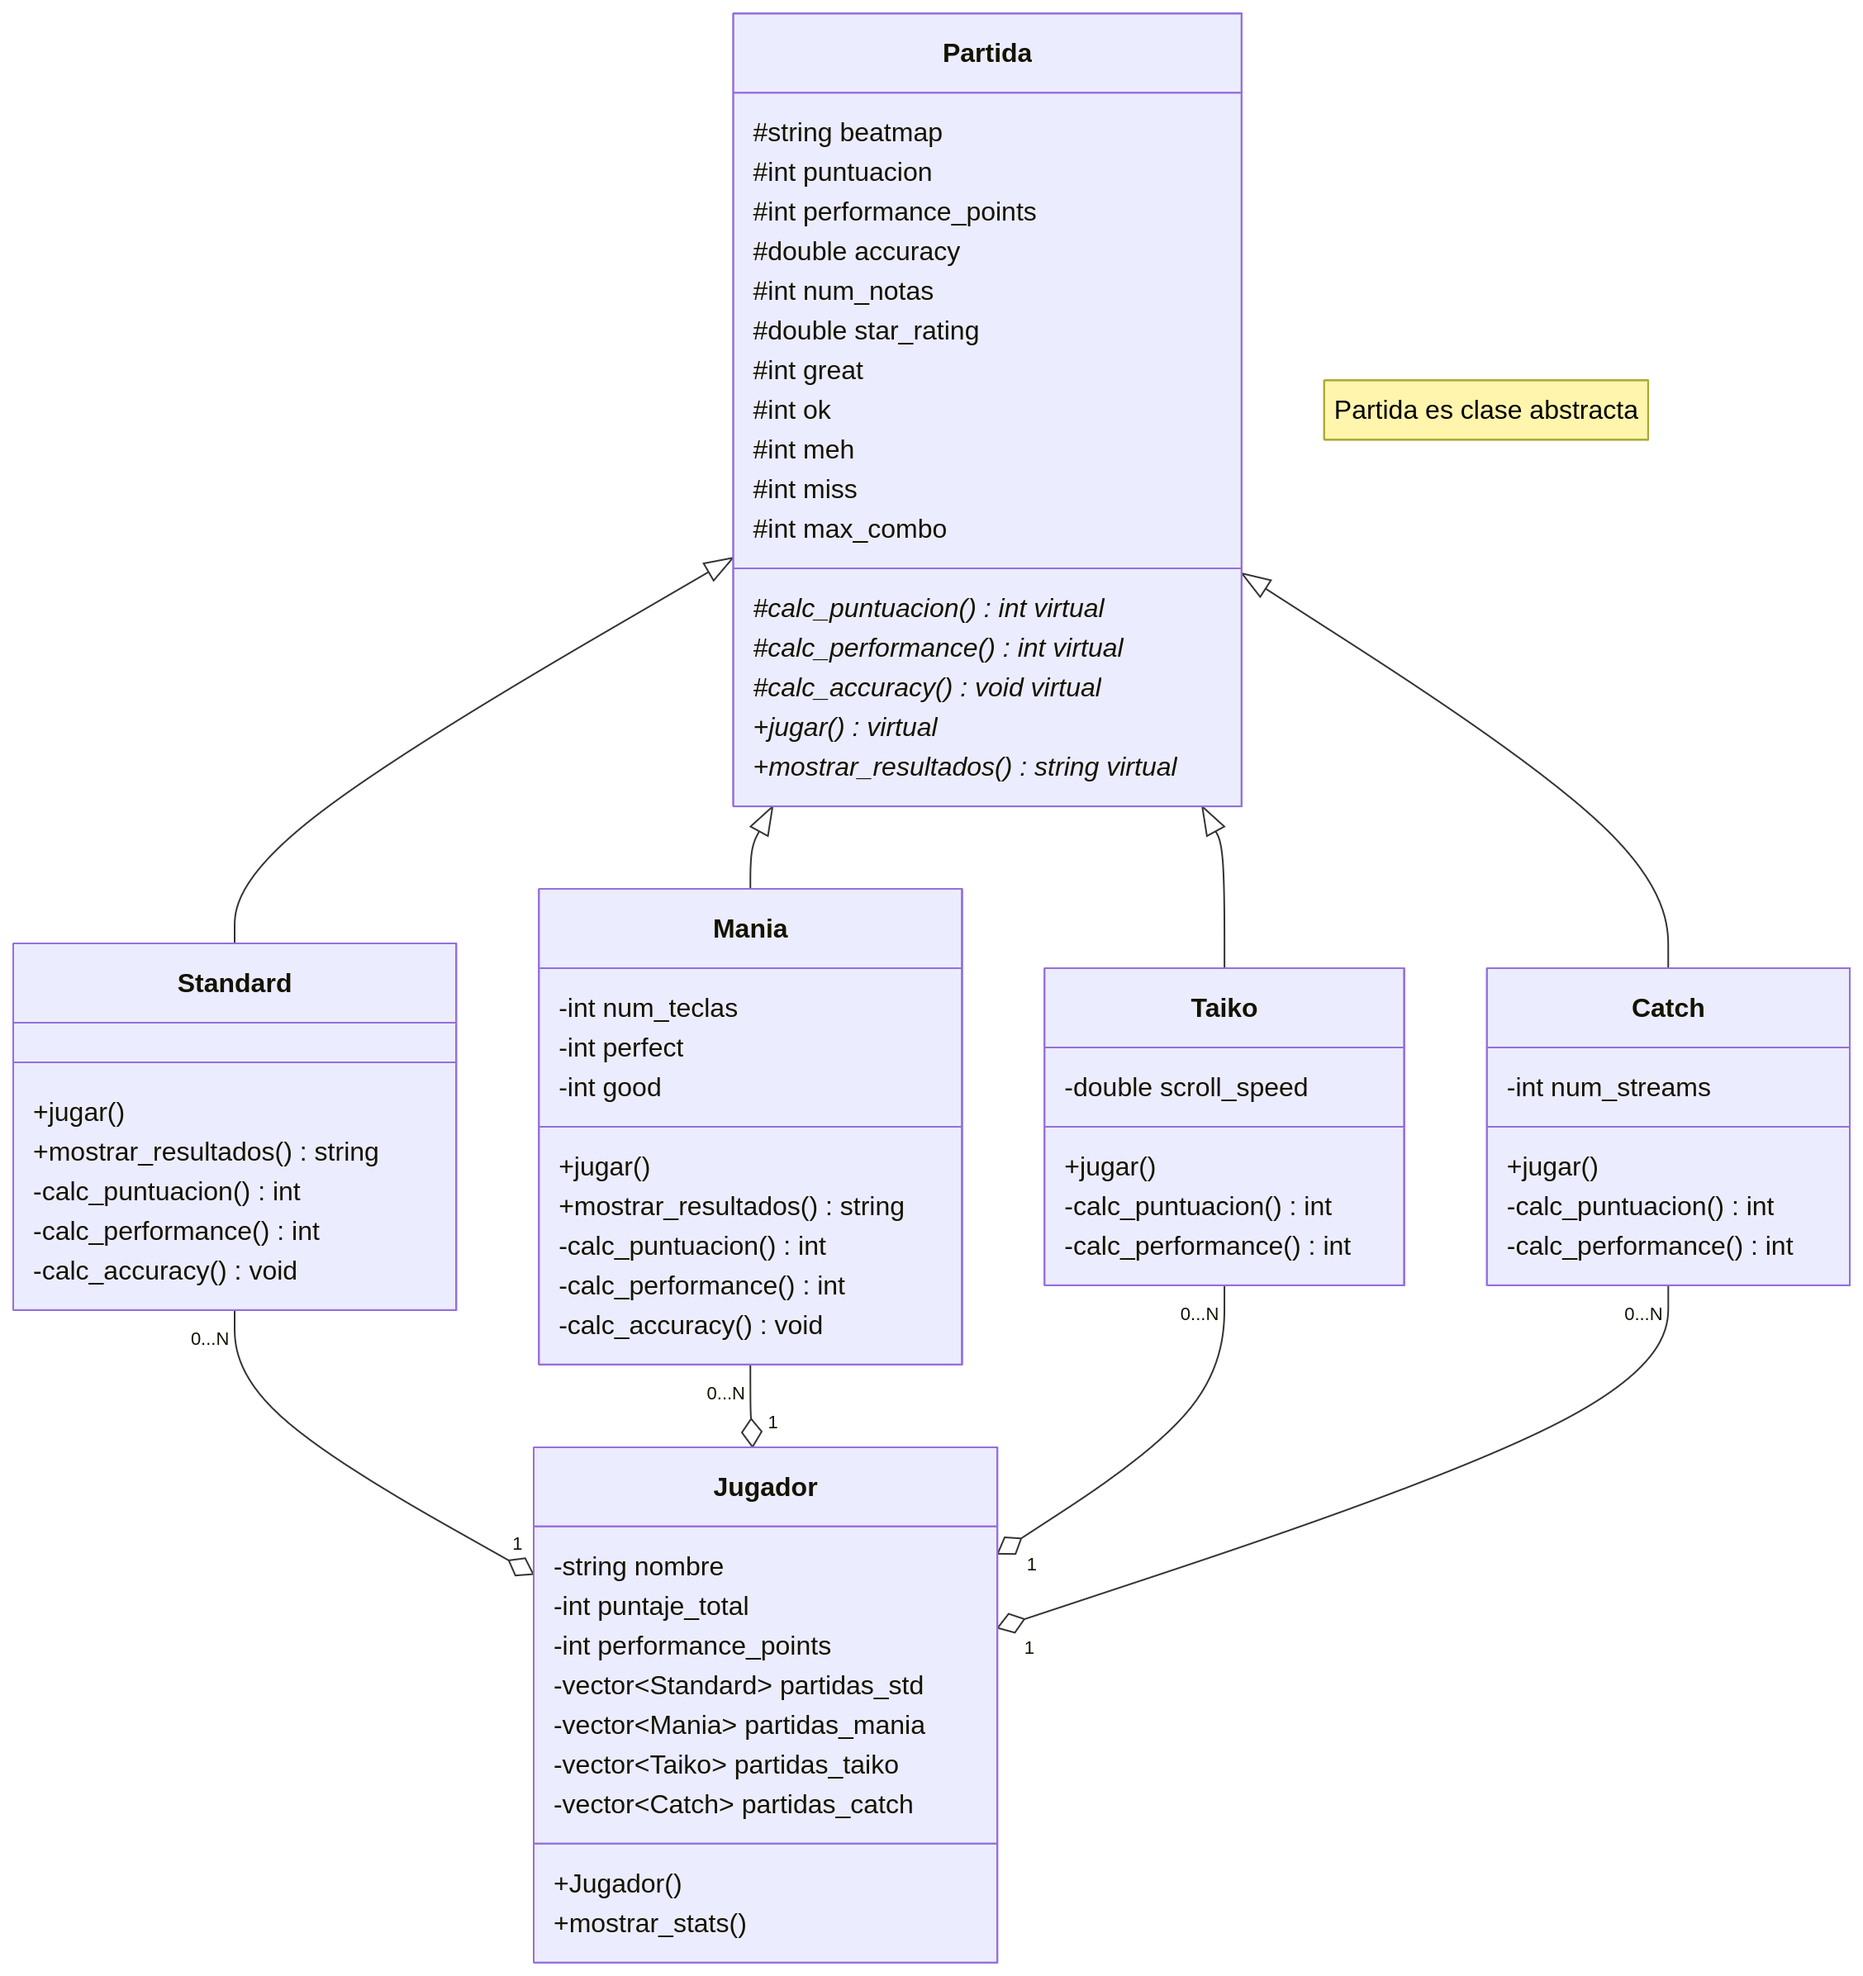
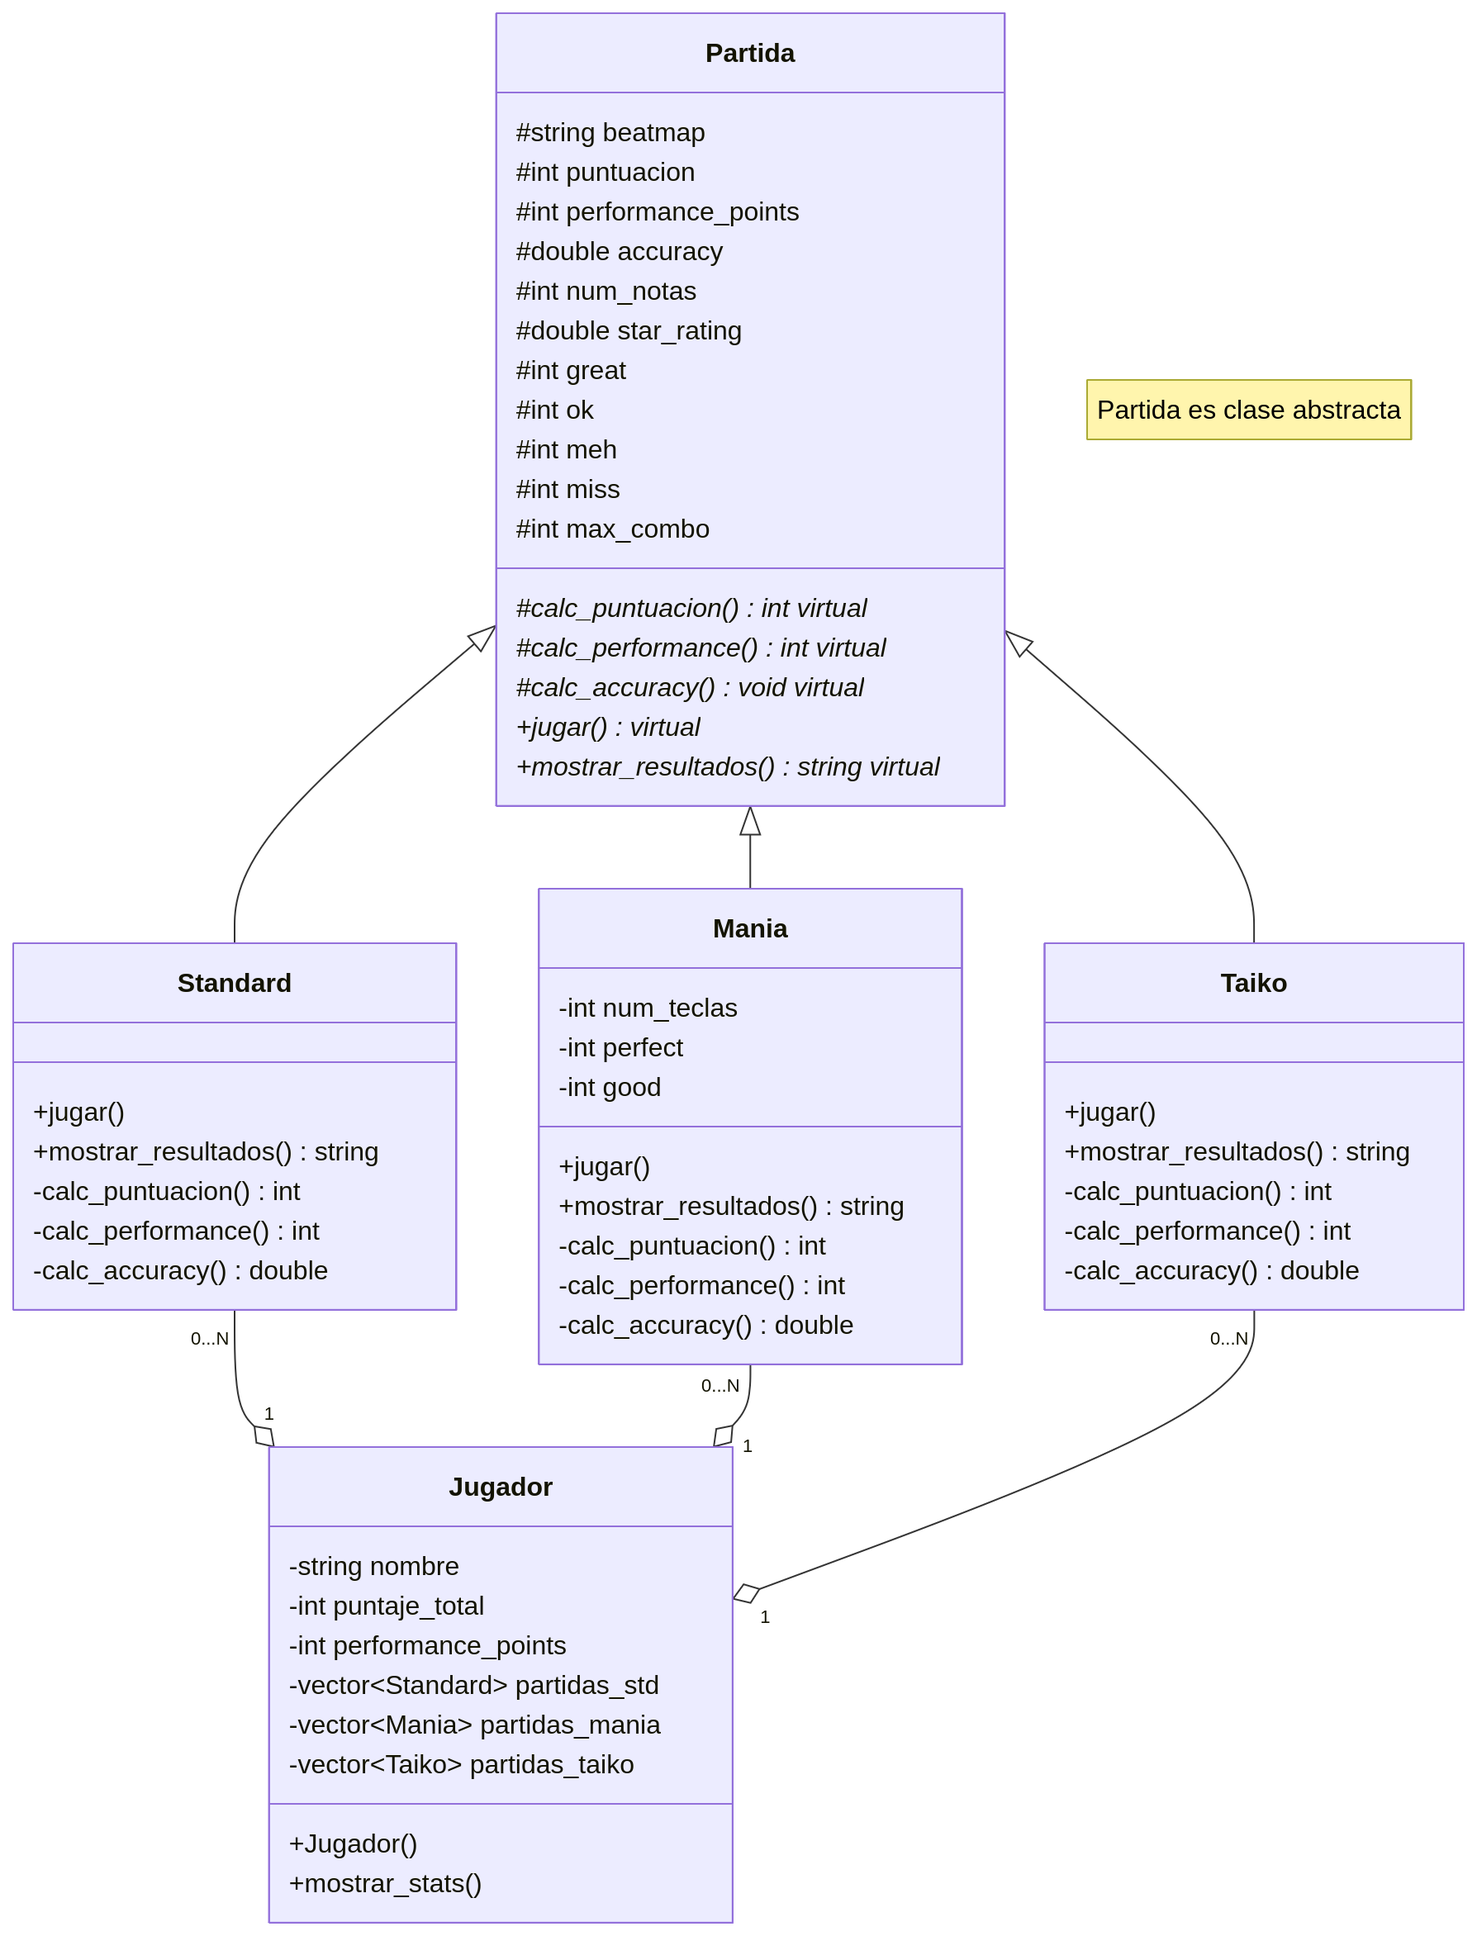
uml: update
calc_accuracy() returns a double
remove catch class

diff --git a/uml.md b/uml.md
@@ -1,4 +1,3 @@
-%%{ init : { "theme" : "default" }}%%
 classDiagram
     note "Partida es clase abstracta"
 class Partida {
@@ -27,7 +26,7 @@ class Standard {
     +mostrar_resultados() string
     -calc_puntuacion() int
     -calc_performance() int
-    -calc_accuracy() void
+    -calc_accuracy() double
 }
 
 class Mania {
@@ -39,27 +38,21 @@ class Mania {
     +mostrar_resultados() string
     -calc_puntuacion() int
     -calc_performance() int
-    -calc_accuracy() void
+    -calc_accuracy() double
 
 }
 
 class Taiko {
-    -double scroll_speed
     +jugar()
+    +mostrar_resultados() string
     -calc_puntuacion() int
     -calc_performance() int
+    -calc_accuracy() double
 }
 
-class Catch {
-    -int num_streams
-    +jugar()
-    -calc_puntuacion() int
-    -calc_performance() int
-}
 Partida <|-- Standard
 Partida <|-- Mania
 Partida <|-- Taiko
-Partida <|-- Catch
 
 class Jugador {
     -string nombre
@@ -68,7 +61,6 @@ class Jugador {
     -vector~Standard~ partidas_std
     -vector~Mania~ partidas_mania
     -vector~Taiko~ partidas_taiko
-    -vector~Catch~ partidas_catch
     
     +Jugador()
     +mostrar_stats()
@@ -78,4 +70,3 @@ class Jugador {
 Standard "0...N" --o "1" Jugador
 Mania "0...N" --o "1" Jugador
 Taiko "0...N" --o "1" Jugador
-Catch "0...N" --o "1" Jugador
